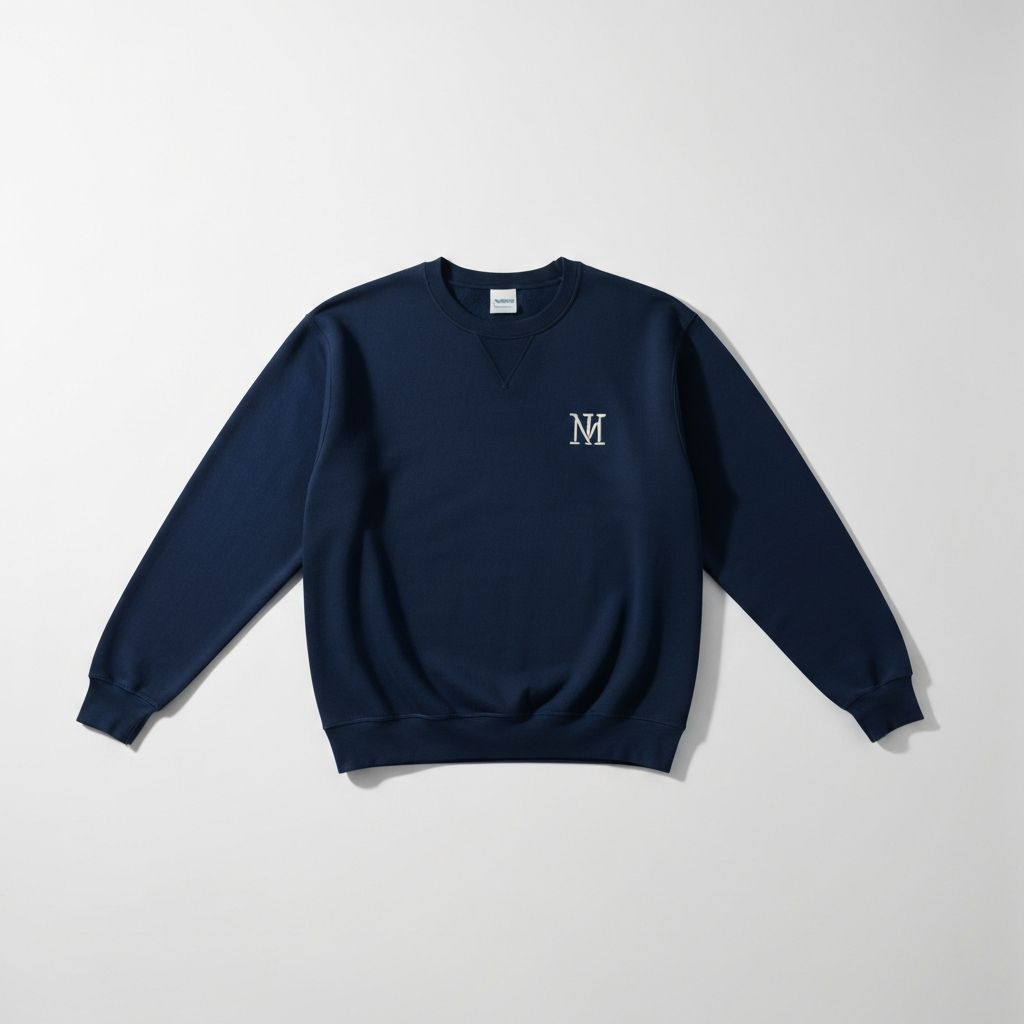
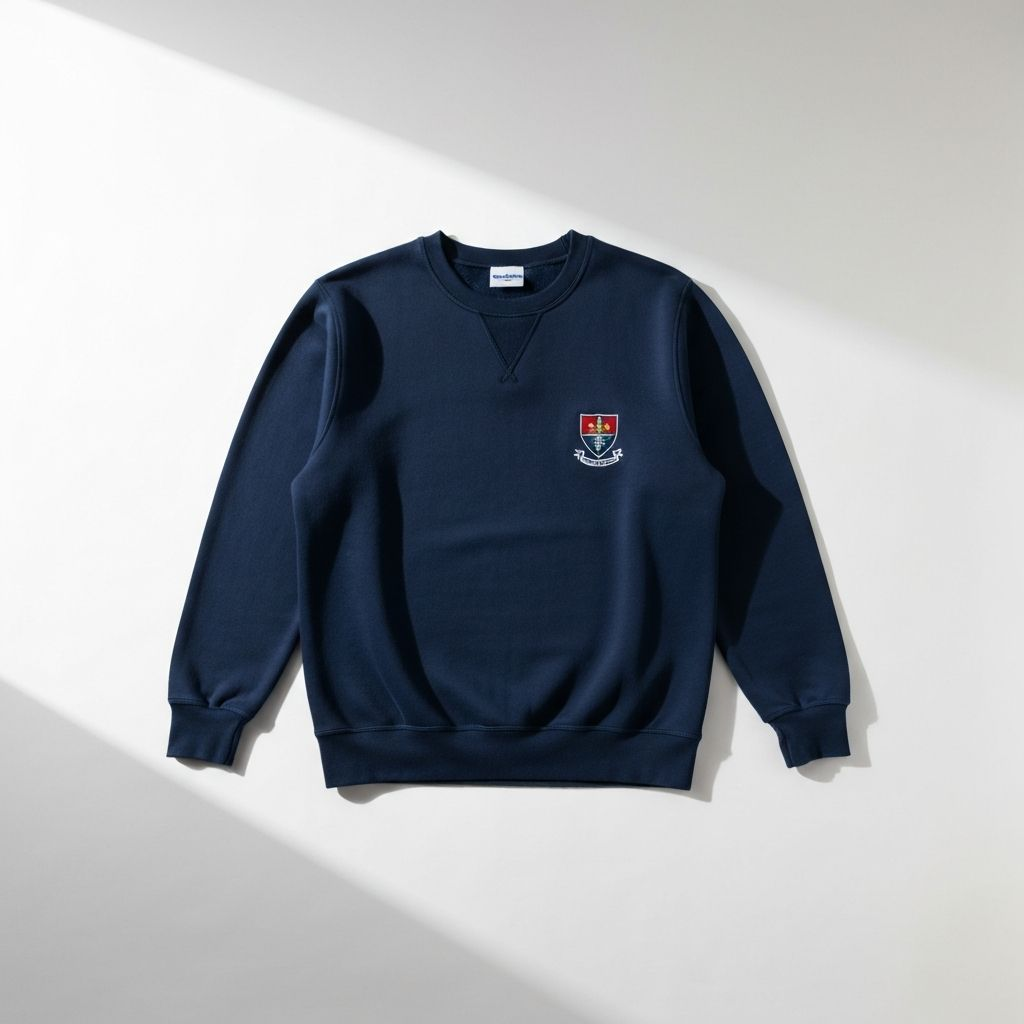
feat: add product image generation and catalog display
Generate missing product images and update shop component
with product catalog and order form button.

diff --git a/components/shop.tsx b/components/shop.tsx
@@ -1,25 +1,30 @@
 import Image from "next/image"
+import Link from "next/link"
 import { Button } from "@/components/ui/button"
-import { ShoppingBag } from "lucide-react"
+import { FileText } from "lucide-react"
 
 const products = [
   {
     name: "Sweatshirt Le Verseau",
+    description: "Sweatshirt confortable aux couleurs de l'ecole, ideal pour les journees fraiches. Disponible en plusieurs tailles enfant et adulte.",
     price: "22,00 - 27,00",
+    sizes: "4 ans - XXL",
     image: "/images/sweatshirt.jpg",
   },
   {
     name: "T-shirt Le Verseau",
+    description: "T-shirt officiel de l'ecole, leger et agreable a porter au quotidien. Disponible en plusieurs tailles.",
     price: "10,00",
+    sizes: "4 ans - XXL",
     image: "/images/tshirt.jpg",
   },
 ]
 
 export function Shop() {
   return (
-    <section className="py-20 px-6">
+    <section className="py-10 px-6">
       <div className="mx-auto max-w-7xl">
-        <div className="grid gap-8 sm:grid-cols-2 lg:grid-cols-3 max-w-4xl mx-auto">
+        <div className="grid gap-8 sm:grid-cols-2 max-w-3xl mx-auto">
           {products.map((product) => (
             <div
               key={product.name}
@@ -30,20 +35,32 @@ export function Shop() {
                   src={product.image}
                   alt={product.name}
                   fill
-                  sizes="(max-width: 640px) 100vw, (max-width: 1024px) 50vw, 33vw"
+                  sizes="(max-width: 640px) 100vw, 50vw"
                   className="object-cover transition-transform duration-500 group-hover:scale-105"
                 />
               </div>
               <div className="p-6">
-                <h3 className="font-semibold text-lg">{product.name}</h3>
-                <p className="mt-1 text-sm text-muted-foreground font-mono">{product.price}&euro;</p>
-                <Button className="mt-4 w-full" variant="outline">
-                  <ShoppingBag className="mr-2 h-4 w-4" />
-                  Choix des options
-                </Button>
+                <h3 className="font-semibold text-lg text-card-foreground">{product.name}</h3>
+                <p className="mt-2 text-sm text-muted-foreground leading-relaxed">{product.description}</p>
+                <div className="mt-4 flex items-center justify-between">
+                  <span className="text-lg font-bold text-primary font-mono">{product.price}&euro;</span>
+                  <span className="text-xs text-muted-foreground">Tailles : {product.sizes}</span>
+                </div>
               </div>
             </div>
           ))}
+        </div>
+
+        <div className="mt-14 text-center">
+          <p className="mb-4 text-muted-foreground text-sm leading-relaxed max-w-md mx-auto">
+            {"Pour commander, telechargez le bon de commande, remplissez-le et remettez-le a l'ecole avec votre paiement."}
+          </p>
+          <Button size="lg" asChild>
+            <Link href="/documents/bon-de-commande.pdf" target="_blank" rel="noopener noreferrer">
+              <FileText className="mr-2 h-5 w-5" />
+              Commander
+            </Link>
+          </Button>
         </div>
       </div>
     </section>
